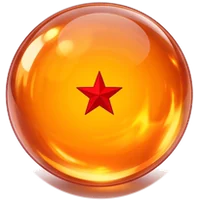
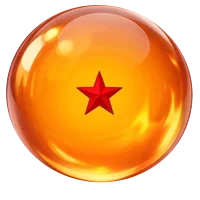
Portada movil legible y esferas del dragon sin mancha blanca
- Intro: el tamano de todo el logo sale de una sola variable (--F); hueco entre letras mayor que el contorno negro, asi ya no se pisan; la bola va en el hueco entre las dos palabras y el subtitulo se parte en dos lineas
- Latidos de la bola con menos brillo (antes se quemaba a blanco)
- Movil: titulares con interlinea abierta y contorno/sombra mas finos, texto de presentacion y cartela amarilla mas grandes y con mas contraste
- Esferas: quitada la peana blanca que asomaba debajo (tools/clean-balls.py)

diff --git a/src/index.css b/src/index.css
@@ -827,24 +827,24 @@ main{overflow-x:clip}.evo-top{max-width:100%}
   -webkit-mask-image:radial-gradient(closest-side,#000 6%,transparent 52%);mask-image:radial-gradient(closest-side,#000 6%,transparent 52%)}
 @keyframes tcspin{to{transform:rotate(360deg)}}
 .tc-stage-in{position:relative;display:flex;flex-direction:column;align-items:center;gap:10px;padding:0 14px;text-align:center;width:min(980px,100%)}
-.tc-name{position:relative;margin:2px 0 4px;display:flex;flex-direction:column;align-items:center;will-change:transform}
-.tcw{display:flex;justify-content:center;gap:.025em;line-height:1;font-family:var(--f-db)}
-.tcw-a{font-size:clamp(46px,min(12.6vw,18vh),158px);letter-spacing:.01em}
-.tcw-b{font-size:clamp(38px,min(10vw,14.4vh),124px);margin-top:clamp(38px,min(8.2vw,11.8vh),104px)}
+.tc-name{--F:clamp(46px,min(17vw,16.5vh),158px);position:relative;margin:2px 0 4px;display:flex;flex-direction:column;align-items:center;will-change:transform}
+.tcw{display:flex;justify-content:center;gap:.1em;line-height:1;font-family:var(--f-db)}   /* hueco suficiente: el contorno negro de una letra no pisa a la vecina */
+.tcw-a{font-size:var(--F)}
+.tcw-b{font-size:calc(var(--F) * .9);margin-top:calc(var(--F) * .62)}
 .tcl{display:inline-block}
 .tcl-in{display:inline-grid;opacity:0;will-change:transform,opacity}
 .tc-stage.static .tcl-in{opacity:1}
 .tcl-in>i{grid-area:1/1;font-style:normal;line-height:1.05;white-space:pre}
-.tcl-in .b{color:#000;-webkit-text-stroke:.2em #000;text-shadow:0 .09em 0 #b32400,0 .17em 0 #120400,0 .24em .3em rgba(0,0,0,.55)}
+.tcl-in .b{color:#000;-webkit-text-stroke:.15em #000;text-shadow:0 .07em 0 #b32400,0 .13em 0 #120400,0 .2em .24em rgba(0,0,0,.5)}
 .tcl-in .f{color:transparent;-webkit-background-clip:text;background-clip:text;
   background:linear-gradient(105deg,transparent 42%,rgba(255,255,255,.95) 50%,transparent 58%) no-repeat 160% 0/260% 100%,linear-gradient(180deg,#fff8b4 0%,#ffd23a 44%,#ff8a1a 100%);
   -webkit-background-clip:text;background-clip:text}
-.tc-ball{position:absolute;left:50%;top:50%;width:clamp(66px,min(12.5vw,18vh),160px);aspect-ratio:1;margin:calc(clamp(66px,min(12.5vw,18vh),160px) / -2) 0 0 calc(clamp(66px,min(12.5vw,18vh),160px) / -2);z-index:3;opacity:0;will-change:transform}
+.tc-ball{position:absolute;left:50%;top:calc(var(--F) * 1.36);width:calc(var(--F) * .94);aspect-ratio:1;margin:calc(var(--F) * -.47) 0 0 calc(var(--F) * -.47);z-index:3;opacity:0;will-change:transform}   /* en el hueco entre las dos palabras, sin tapar letras */
 .tc-ball img{display:block;width:100%;height:100%;position:relative;z-index:1}
-.tc-halo{position:absolute;inset:-70%;border-radius:50%;opacity:0;will-change:transform,opacity;background:radial-gradient(circle,rgba(255,250,200,.95) 0,rgba(255,176,50,.7) 22%,rgba(255,120,20,.28) 42%,transparent 66%)}
+.tc-halo{position:absolute;inset:-70%;border-radius:50%;opacity:0;will-change:transform,opacity;background:radial-gradient(circle,rgba(255,200,90,.8) 0,rgba(255,160,40,.6) 24%,rgba(255,120,20,.26) 44%,transparent 66%)}
 .tc-saga{opacity:0;margin-bottom:clamp(28px,min(5.4vw,8vh),70px);font-family:var(--f-mono);font-size:12px;letter-spacing:.2em;text-transform:uppercase;color:#fff;background:#c4122f;border:2.5px solid #000;box-shadow:4px 4px 0 #000;padding:6px 14px;transform-origin:center}
 .tc-stage.static .tc-saga{opacity:1;transform:rotate(-2deg)}
-.tc-sub{opacity:0;margin:0;font-family:var(--f-mono);font-size:13px;color:#e4d8ff;letter-spacing:.03em}
+.tc-sub{opacity:0;margin:0;font-family:var(--f-mono);font-size:13px;color:#efe6ff;letter-spacing:.03em;text-wrap:balance;max-width:34em}
 .tc-actions{display:flex;flex-direction:column;align-items:center;gap:6px;margin-top:12px}
 .tc-actions>*{opacity:0}
 .tc-stage.static .tc-sub,.tc-stage.static .tc-actions>*,.tc-stage.static .tc-ball{opacity:1}
@@ -856,7 +856,7 @@ main{overflow-x:clip}.evo-top{max-width:100%}
 .tc-spark{position:absolute;left:50%;top:46%;width:7px;height:7px;margin:-3px 0 0 -3px;border-radius:50%;opacity:0;pointer-events:none;background:#fff8c0;box-shadow:0 0 10px 3px rgba(255,200,60,.9)}
 .tc-spark:nth-child(3n){background:#bfe7ff;box-shadow:0 0 10px 3px rgba(90,170,255,.85)}
 .tc-flash{position:absolute;inset:0;opacity:0;pointer-events:none;background:radial-gradient(circle at 50% 46%,#fff 0,#fff6c4 28%,rgba(255,200,70,.65) 58%,rgba(255,200,70,.0) 85%)}
-@media (max-width:560px){.tc-saga{font-size:10.5px;letter-spacing:.13em}.tc-sub{font-size:11.5px}}
+@media (max-width:560px){.tc-saga{font-size:11px;letter-spacing:.12em;line-height:1.35}.tc-sub{font-size:12.5px;line-height:1.5;max-width:20em}.tc-stage-in{gap:12px}}
 @media (prefers-reduced-motion:reduce){.tc-rays{animation:none;opacity:.5}.tc-start{animation:none}}
 
 /* ===== puntos de calor: contacto siempre a mano ===== */
@@ -1393,3 +1393,24 @@ main{overflow-x:clip}.evo-top{max-width:100%}
   .comp-item .ci-txt b{font-size:17px}
 }
 @media (prefers-reduced-motion:reduce){.sk-img{animation:none}.sk-pin i::after{animation:none;opacity:.5;transform:scale(1)}}
+
+/* ===================== LEGIBILIDAD MÓVIL: titulares, textos y cartelas ===================== */
+@media (max-width:620px){
+  /* interlínea más abierta y contorno/sombra más finos: antes la sombra negra de una línea se montaba sobre la siguiente */
+  .hero h1,.sec-head h2,.evo-top h2,.shen-lock h2,.shen-open h2,.comp-title,.dbf-head h2{line-height:1.2;letter-spacing:.02em}
+  .hero h1{font-size:clamp(30px,9.4vw,40px)}
+  .hero h1,.sec-head h2,.evo-top h2,.shen-lock h2,.shen-open h2,.comp-title{-webkit-text-stroke:1.6px #000;text-shadow:0 3px 0 #c4122f}
+  .hero h1 .ln>span:not(.em){-webkit-text-stroke:1.6px #000}
+  .hero h1 .ln{padding:.04em 0}
+  .hero-lead{font-size:16px;line-height:1.6;color:#d4dff0;margin:20px auto 26px;max-width:34ch}
+  .hero-lead b{color:#fff}
+  .hero-stats .st span{font-size:12px;color:#b9c7da}
+  .hero-stats .st b{font-size:clamp(26px,8vw,32px)}
+  /* cartela amarilla bajo el personaje: texto más grande y rojo más oscuro para que contraste sobre el amarillo */
+  .char3d-study{font-size:12.5px;line-height:1.4;padding:6px 11px}
+  .char3d-study i{color:#9b0a22}
+  .char3d-name{font-size:13px}
+  .balloon{font-size:14px}
+}
+
+@media (max-width:560px){.tc-sub span{display:block}.tc-sub .sep{display:none}}

diff --git a/src/components/TitleCard.tsx b/src/components/TitleCard.tsx
@@ -53,10 +53,10 @@ export default function TitleCard({ launch, onStart, onSilent }: { launch: boole
           .fromTo(q(".tc-halo"), { scale: 0.3, opacity: 0 }, { scale: 1, opacity: 0.8, duration: 0.7, ease: "power2.out" }, 0.25)
           .to(q(".tc-ball"), { scale: 1.15, duration: 0.16, yoyo: true, repeat: 1, ease: "power2.out" }, 1)
           .to(q(".tc-halo"), { scale: 1.55, opacity: 1, duration: 0.16, yoyo: true, repeat: 1 }, 1)
-          .to(q(".tc-ball img"), { filter: "brightness(2.2) saturate(1.3)", duration: 0.16, yoyo: true, repeat: 1 }, 1)
+          .to(q(".tc-ball img"), { filter: "brightness(1.3) saturate(1.2)", duration: 0.16, yoyo: true, repeat: 1 }, 1)
           .to(q(".tc-ball"), { scale: 1.28, duration: 0.2, yoyo: true, repeat: 1, ease: "power2.out" }, 1.32)
           .to(q(".tc-halo"), { scale: 2.1, opacity: 1, duration: 0.2, yoyo: true, repeat: 1 }, 1.32)
-          .to(q(".tc-ball img"), { filter: "brightness(3.2) saturate(1.4)", duration: 0.2, yoyo: true, repeat: 1 }, 1.32)
+          .to(q(".tc-ball img"), { filter: "brightness(1.5) saturate(1.3)", duration: 0.2, yoyo: true, repeat: 1 }, 1.32)
           // 2) estallido: destello, ondas de choque, rayos, chispas y sacudida de pantalla
           .addLabel("boom", 1.85)
           .to(q(".tc-flash"), { opacity: 1, duration: 0.07 }, "boom")
@@ -114,7 +114,7 @@ export default function TitleCard({ launch, onStart, onSilent }: { launch: boole
           </span>
           <Word text="NEGRETE" arch={false} />
         </h1>
-        <p className="tc-sub">AI Product Designer · UX/UI · Automatización con IA</p>
+        <p className="tc-sub"><span>AI Product Designer</span><span className="sep"> · </span><span>UX/UI · Automatización con IA</span></p>
         <div className="tc-actions">
           <button className="btn gold tc-start" onClick={onStart} autoFocus>▶ Comenzar la aventura</button>
           <button className="loader-skip" onClick={onSilent}>Entrar sin sonido</button>

diff --git a/tools/clean-balls.py b/tools/clean-balls.py
@@ -1,0 +1,33 @@
+"""Limpia las 7 esferas del dragón (public/assets/db/ball1..7.webp): el render original traía una media luna
+blanca/gris pegada debajo (resto de la base/reflejo) que se veía como una mancha fuera de la esfera.
+La silueta real es una elipse ajustada al arco SUPERIOR de la esfera (la parte naranja/roja, muy
+saturada, lejos de la peana de abajo) y todo lo de fuera —la peana de cristal incluida— se hace transparente con borde suave.
+Los originales quedan en _source/db-backup; el script parte de ellos, así que se puede ejecutar varias veces.
+Uso: python tools/clean-balls.py"""
+import cv2, numpy as np
+from PIL import Image
+
+for n in range(1, 8):
+    p, src = f"public/assets/db/ball{n}.webp", f"_source/db-backup/ball{n}.webp"
+    im = np.asarray(Image.open(src).convert("RGBA")).copy()
+    rgb = im[..., :3].astype(int); al = im[..., 3]
+    sat = rgb.max(-1) - rgb.min(-1)
+    core = ((al > 200) & (sat > 70)).astype(np.uint8)
+    core = cv2.morphologyEx(core, cv2.MORPH_OPEN, np.ones((3, 3), np.uint8))
+    n_lab, lab, st, _ = cv2.connectedComponentsWithStats(core, 8)
+    core = (lab == 1 + np.argmax(st[1:, cv2.CC_STAT_AREA])).astype(np.uint8)          # solo la esfera (con algo de peana)
+    cnts, _ = cv2.findContours(core, cv2.RETR_EXTERNAL, cv2.CHAIN_APPROX_NONE)
+    pts = max(cnts, key=len).reshape(-1, 2).astype(np.float64)
+    ys = pts[:, 1]
+    top = pts[ys < ys.min() + 0.62 * (ys.max() - ys.min())]                            # arco superior: lejos de la peana
+    (cx, cy), (w, h), ang = cv2.fitEllipse(top.astype(np.float32))                      # la esfera es algo más ancha que alta
+    yy, xx = np.mgrid[0:al.shape[0], 0:al.shape[1]]
+    t = np.deg2rad(ang); dx, dy = xx - cx, yy - cy
+    u = (dx * np.cos(t) + dy * np.sin(t)) / (w / 2); v = (-dx * np.sin(t) + dy * np.cos(t)) / (h / 2)
+    dist = (np.hypot(u, v) - 1.0) * min(w, h) / 2                                        # distancia aprox. al borde en px
+    soft = np.clip(0.8 - dist, 0, 1).astype(np.float32)                                  # 1 px de margen y borde suave
+    out = im.copy()
+    out[..., 3] = (al.astype(np.float32) * soft).astype(np.uint8)
+    removed = int(((al > 40) & (soft == 0)).sum())
+    Image.fromarray(out, "RGBA").save(p, "WEBP", quality=90, method=6, alpha_quality=100)
+    print(f"ball{n}: elipse c=({cx:.0f},{cy:.0f}) ejes={w:.0f}x{h:.0f}, {removed} px opacos fuera eliminados")

diff --git a/README.md b/README.md
@@ -81,6 +81,7 @@ _source/                 # originales (no se versiona ni se despliega)
 | `build-mesa.py` | Elige los fotogramas de `_source/mesa/mesa.mp4` según la mirada, los exporta a WebP y genera `src/mesaGaze.ts` (requiere ffmpeg) |
 | `build-capsules.py` | Genera las 16 cápsulas Hoi-Poi |
 | `build-space.py` | Genera la nebulosa procedural |
+| `clean-balls.py` | Limpia las 7 esferas del dragón (`public/assets/db/ball1..7.webp`): ajusta una elipse al arco superior y deja transparente la peana blanca de debajo. Parte de los originales en `_source/db-backup`, así que se puede repetir |
 
 ## 🎬 Remotion (imagen para compartir y teaser)
 La carpeta `remotion/` es un proyecto aparte (no entra en el build de la web) que usa los mismos assets y la misma tipografía:
